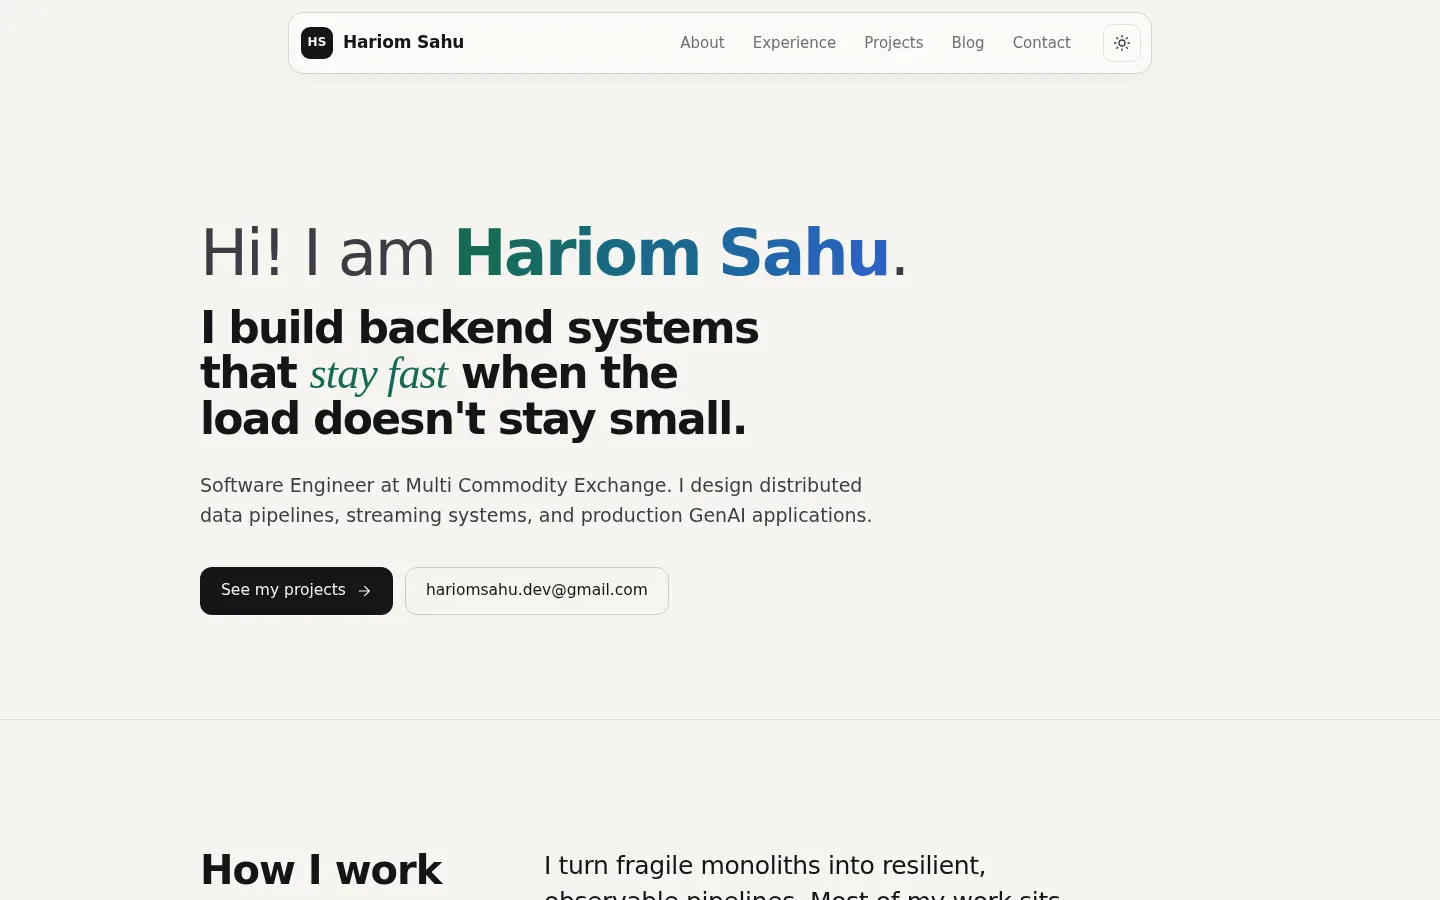
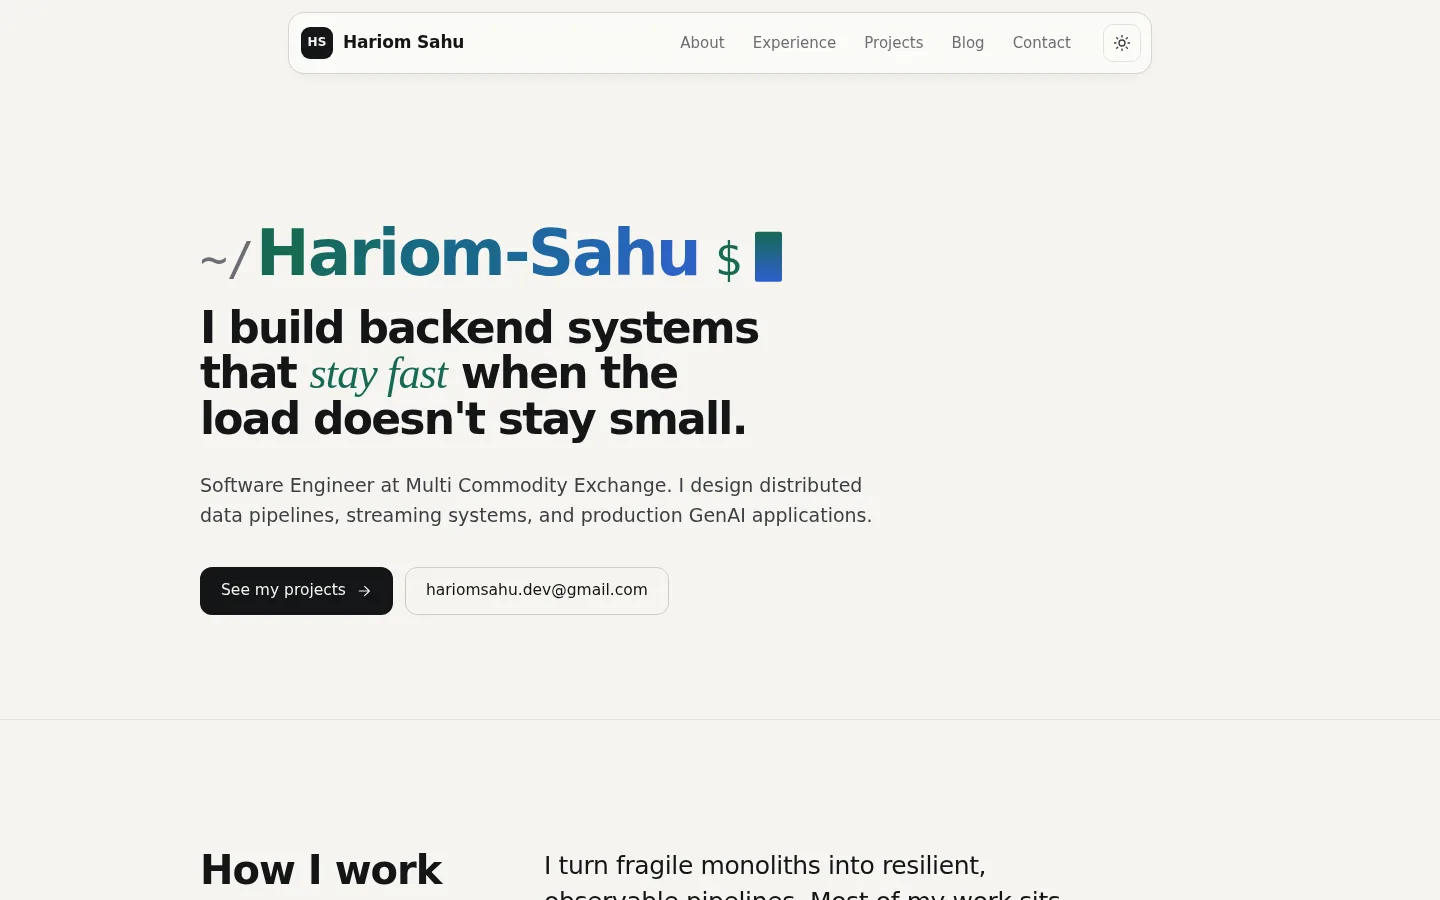
feat: hero name as terminal prompt ~/Hariom-Sahu $ with blinking cursor

Changed region(s): [[0.125, 0.2489, 0.625, 0.3111]]

diff --git a/assets/css/styles.css b/assets/css/styles.css
@@ -1741,3 +1741,28 @@ svg { width: 1em; height: 1em; fill: none; stroke: currentColor; stroke-width: 1
 .locate-facts div:last-child { grid-column: 1 / -1; }
 .locate-facts dt { font-family: var(--font-mono); font-size: 11px; letter-spacing: 0.04em; color: var(--muted); }
 .locate-facts dd { margin: 3px 0 0; font-size: 14.5px; font-weight: 600; color: var(--ink); font-variant-numeric: tabular-nums; }
+
+/* ---------- Hero: terminal-prompt name  ~/Hariom-Sahu $ ▌ ---------- */
+.prompt { display: flex; flex-wrap: wrap; align-items: baseline; gap: 0; }
+.prompt-path, .prompt-sign {
+  font-family: var(--font-mono);
+  font-size: 0.72em;
+  font-weight: 500;
+  letter-spacing: -0.02em;
+  color: var(--muted);
+}
+.prompt-path { margin-right: 0.06em; }
+.prompt-sign { margin-left: 0.32em; color: var(--accent); }
+.prompt-caret {
+  display: inline-block;
+  width: 0.42em;
+  height: 0.78em;
+  margin-left: 0.22em;
+  align-self: center;
+  transform: translateY(0.06em);
+  border-radius: 2px;
+  background: linear-gradient(180deg, var(--accent), var(--accent-2));
+  animation: prompt-blink 1.05s steps(1) infinite;
+}
+@keyframes prompt-blink { 50% { opacity: 0; } }
+@media (prefers-reduced-motion: reduce) { .prompt-caret { animation: none; } }

diff --git a/index.html b/index.html
@@ -49,7 +49,7 @@
     <!-- Hero -->
     <section class="hero">
       <div class="container">
-        <p class="hero-hello reveal">Hi! I am <strong class="name" id="hero-name">Hariom Sahu</strong>.</p>
+        <p class="hero-hello prompt reveal"><span class="prompt-path" aria-hidden="true">~/</span><strong class="name" id="hero-name" data-label="Hariom Sahu">Hariom-Sahu</strong><span class="prompt-sign" aria-hidden="true">$</span><span class="prompt-caret" aria-hidden="true"></span></p>
         <h1 class="hero-title reveal">I build backend systems that <em>stay fast</em> when the load doesn't stay small.</h1>
         <p class="hero-lede reveal">
           Software Engineer at Multi Commodity Exchange. I design distributed data pipelines, streaming systems,

diff --git a/assets/js/site.js b/assets/js/site.js
@@ -396,7 +396,7 @@
   var heroName = $("#hero-name");
   if (heroName) {
     var text = heroName.textContent;
-    heroName.setAttribute("aria-label", text);
+    heroName.setAttribute("aria-label", heroName.dataset.label || text);
     heroName.innerHTML = text.split("").map(function (c, i) {
       return '<span class="ch' + (c === " " ? " sp" : "") + '" style="--i:' + i + '" aria-hidden="true">' + (c === " " ? "&nbsp;" : esc(c)) + "</span>";
     }).join("");

diff --git a/README.md b/README.md
@@ -58,7 +58,7 @@ The site has three pages: **Home**, **Projects** and **Blog**. The header on eve
 
 [Open ↗](https://harry9321.github.io/New_Portfolio/)
 
-The first screen opens with **"Hi! I am Hariom Sahu."** (hover over the name and the letters wave), says what I do in one line and gives two actions: **See my projects** and email me. The menu bar floats centred at the top of every page, and on desktop your cursor throws off sparkling fire sparks that leave long, curving threads.
+The first screen opens with my name as a terminal prompt, **`~/Hariom-Sahu $ ▌`**, with a blinking cursor (hover over the name and the letters wave), says what I do in one line and gives two actions: **See my projects** and email me. The menu bar floats centred at the top of every page, and on desktop your cursor throws off sparkling fire sparks that leave long, curving threads.
 
 ### 2. About: how I work
 
